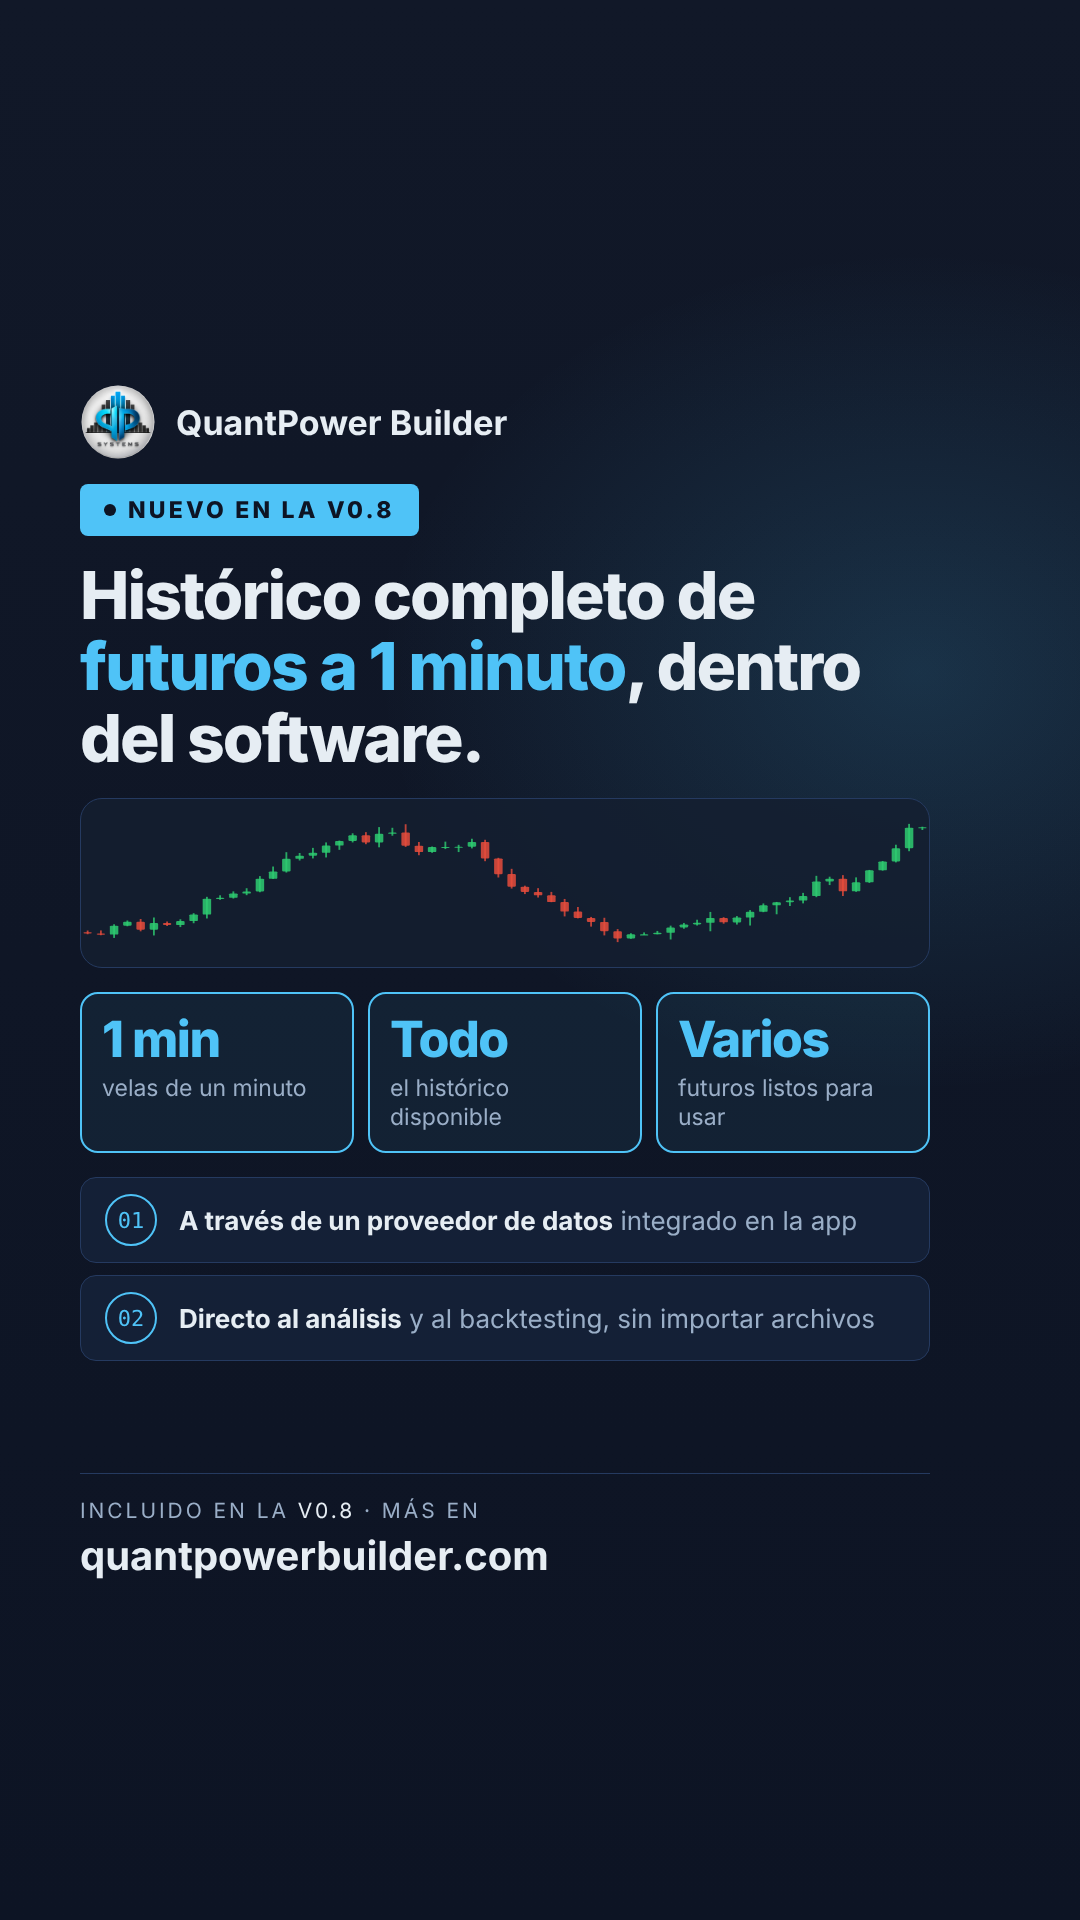
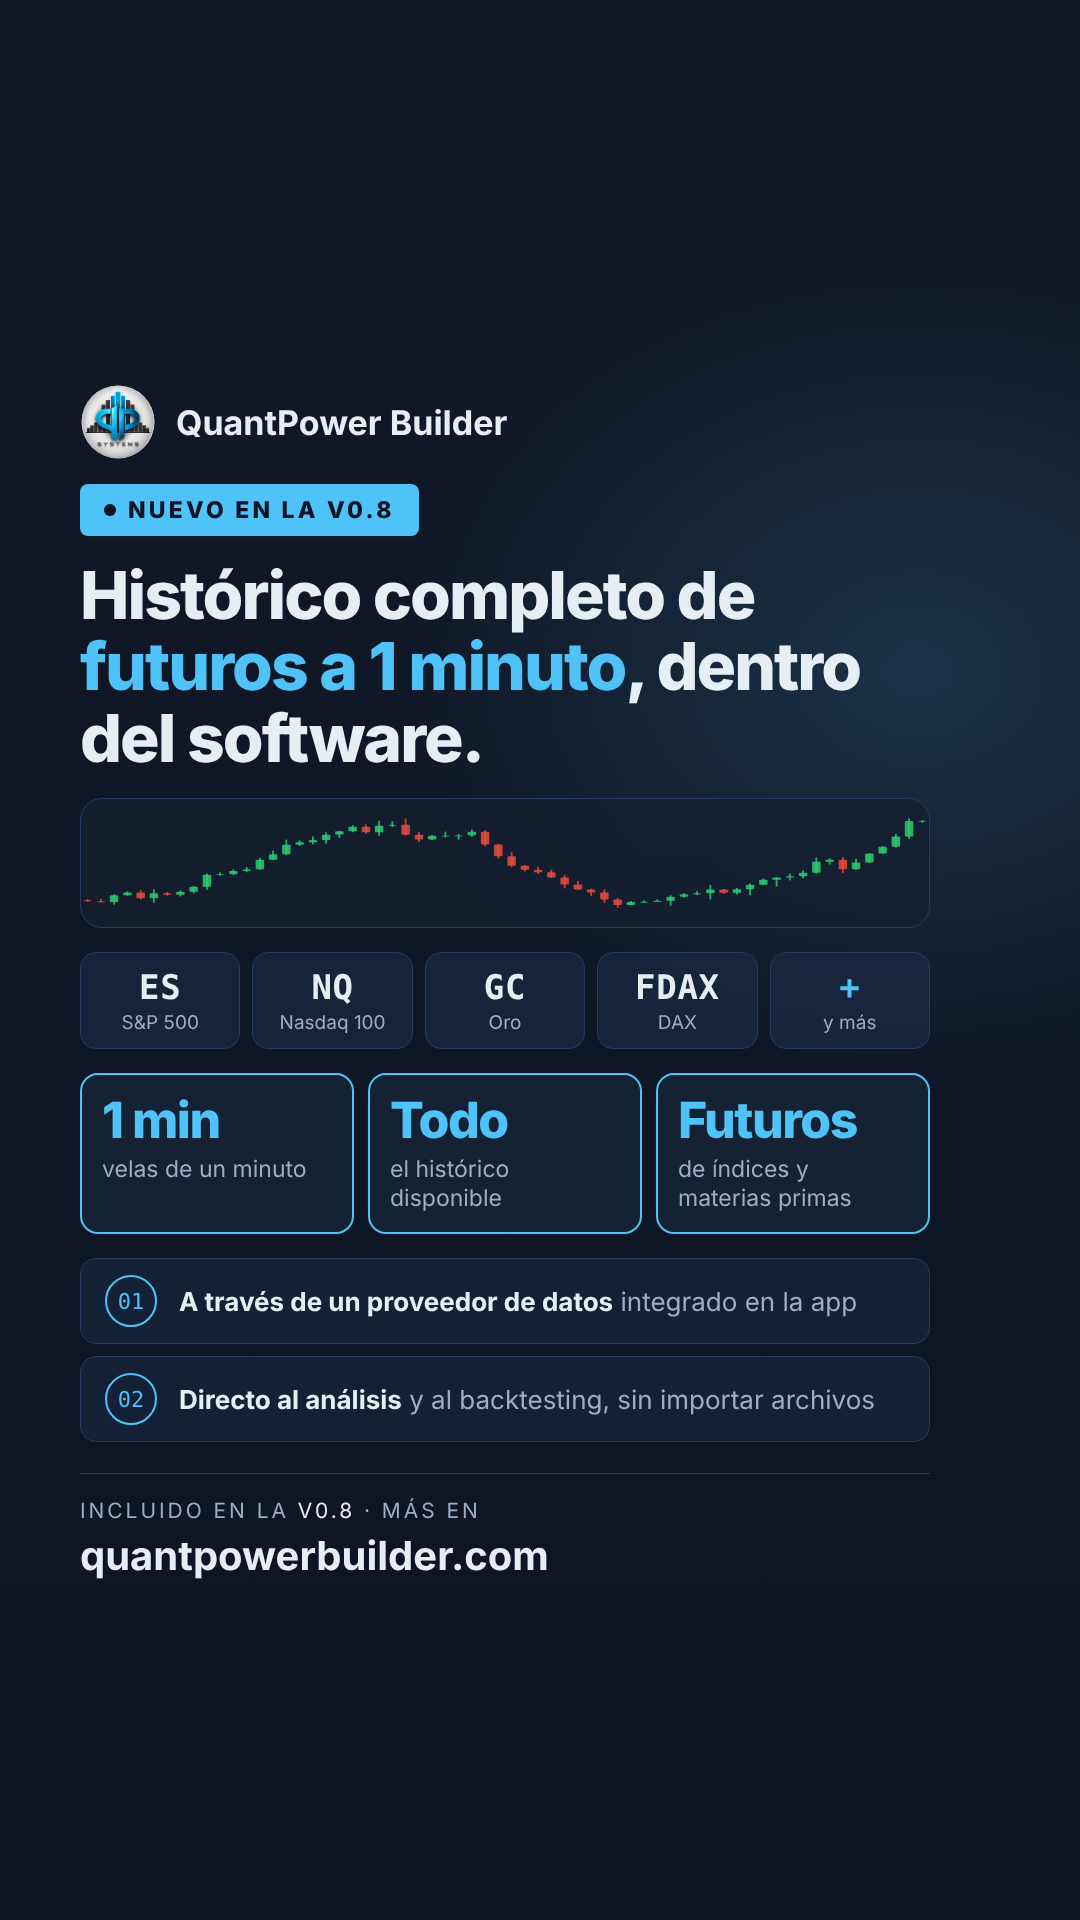
Redes: la portada de la v0.8 muestra ES, NQ, GC y FDAX
Claude-Session: https://claude.ai/code/session_01HHLZi1SgtUefWHesdsfYTT

diff --git a/redes/11-futuros-1min/cartel.html b/redes/11-futuros-1min/cartel.html
@@ -72,8 +72,10 @@
   .foot strong { display: block; margin-top: 8px; font-size: 40px; font-weight: 700; color: var(--text-strong); }
   .foot strong span { color: var(--accent); }
   .poster:not(.vertical) { gap: 24px; }
-  .chart { display: block; width: 100%; height: 170px; padding: 18px 0; border: 1px solid var(--border); border-radius: 22px; background: rgba(20,30,48,.85); }
-  .vertical .chart { height: 190px; }
+  .chart { display: block; width: 100%; height: 130px; padding: 14px 0; border: 1px solid var(--border); border-radius: 22px; background: rgba(20,30,48,.85); }
+  .vertical .chart { height: 110px; }
+  .vertical .stat { padding: 16px 18px; }
+  .vertical .tk { padding: 10px 8px; }
   .poster:not(.vertical) .topic { padding: 16px 24px; font-size: 26px; }
   .stats { display: grid; grid-template-columns: repeat(3, 1fr); gap: 14px; }
   .stat { padding: 20px 20px; border-radius: 18px; border: 2px solid var(--accent); background: rgba(79,195,247,.07); }
@@ -81,6 +83,11 @@
   .stat span { display: block; margin-top: 10px; font-size: 23px; line-height: 1.25; color: var(--text-muted); }
   .vertical .stat strong { font-size: 46px; }
   .ver { color: var(--text-strong); }
+  .tickers { display: grid; grid-template-columns: repeat(5, 1fr); gap: 12px; }
+  .tk { padding: 14px 10px; border-radius: 16px; border: 1px solid var(--border); background: rgba(26,42,69,.7); text-align: center; }
+  .tk b { display: block; font-family: var(--mono); font-size: 34px; font-weight: 800; color: var(--text-strong); letter-spacing: .02em; }
+  .tk span { display: block; margin-top: 4px; font-size: 19px; color: var(--text-muted); }
+  .tk.more b { color: var(--accent); }
 </style>
 </head>
 <body>
@@ -90,10 +97,17 @@
   <div class="badge">Nuevo en la v0.8</div>
   <h1>Histórico completo de <span>futuros a 1 minuto</span>, dentro del software.</h1>
   <svg class="chart" viewBox="0 0 920 230" preserveAspectRatio="none" aria-hidden="true"><path d="M7.2 197.8V204.3" stroke="var(--red)" stroke-width="2" opacity=".8"/><rect x="2.6" y="200.8" width="9.2" height="2.2" rx="1.5" fill="var(--red)" opacity=".85"/><path d="M21.6 197.6V206.0" stroke="var(--red)" stroke-width="2" opacity=".8"/><rect x="17.0" y="203.0" width="9.2" height="2.0" rx="1.5" fill="var(--red)" opacity=".85"/><path d="M35.9 186.9V210.7" stroke="var(--green)" stroke-width="2" opacity=".8"/><rect x="31.3" y="189.4" width="9.2" height="15.4" rx="1.5" fill="var(--green)" opacity=".85"/><path d="M50.3 180.3V190.4" stroke="var(--green)" stroke-width="2" opacity=".8"/><rect x="45.7" y="182.6" width="9.2" height="6.8" rx="1.5" fill="var(--green)" opacity=".85"/><path d="M64.7 177.7V199.2" stroke="var(--red)" stroke-width="2" opacity=".8"/><rect x="60.1" y="182.6" width="9.2" height="13.7" rx="1.5" fill="var(--red)" opacity=".85"/><path d="M79.1 175.1V206.4" stroke="var(--green)" stroke-width="2" opacity=".8"/><rect x="74.5" y="184.8" width="9.2" height="11.5" rx="1.5" fill="var(--green)" opacity=".85"/><path d="M93.4 182.1V189.9" stroke="var(--red)" stroke-width="2" opacity=".8"/><rect x="88.8" y="184.8" width="9.2" height="3.3" rx="1.5" fill="var(--red)" opacity=".85"/><path d="M107.8 178.2V191.8" stroke="var(--green)" stroke-width="2" opacity=".8"/><rect x="103.2" y="181.3" width="9.2" height="6.9" rx="1.5" fill="var(--green)" opacity=".85"/><path d="M122.2 167.6V185.1" stroke="var(--green)" stroke-width="2" opacity=".8"/><rect x="117.6" y="169.9" width="9.2" height="11.4" rx="1.5" fill="var(--green)" opacity=".85"/><path d="M136.6 139.1V176.8" stroke="var(--green)" stroke-width="2" opacity=".8"/><rect x="132.0" y="142.3" width="9.2" height="27.6" rx="1.5" fill="var(--green)" opacity=".85"/><path d="M150.9 136.4V144.3" stroke="var(--green)" stroke-width="2" opacity=".8"/><rect x="146.3" y="140.7" width="9.2" height="2.0" rx="1.5" fill="var(--green)" opacity=".85"/><path d="M165.3 129.6V142.1" stroke="var(--green)" stroke-width="2" opacity=".8"/><rect x="160.7" y="133.2" width="9.2" height="7.5" rx="1.5" fill="var(--green)" opacity=".85"/><path d="M179.7 124.1V136.2" stroke="var(--green)" stroke-width="2" opacity=".8"/><rect x="175.1" y="129.7" width="9.2" height="3.6" rx="1.5" fill="var(--green)" opacity=".85"/><path d="M194.1 103.0V131.1" stroke="var(--green)" stroke-width="2" opacity=".8"/><rect x="189.5" y="107.6" width="9.2" height="22.0" rx="1.5" fill="var(--green)" opacity=".85"/><path d="M208.4 86.3V107.9" stroke="var(--green)" stroke-width="2" opacity=".8"/><rect x="203.8" y="94.9" width="9.2" height="12.7" rx="1.5" fill="var(--green)" opacity=".85"/><path d="M222.8 61.3V96.8" stroke="var(--green)" stroke-width="2" opacity=".8"/><rect x="218.2" y="72.9" width="9.2" height="22.0" rx="1.5" fill="var(--green)" opacity=".85"/><path d="M237.2 62.7V75.8" stroke="var(--green)" stroke-width="2" opacity=".8"/><rect x="232.6" y="67.4" width="9.2" height="5.5" rx="1.5" fill="var(--green)" opacity=".85"/><path d="M251.6 53.8V72.2" stroke="var(--green)" stroke-width="2" opacity=".8"/><rect x="247.0" y="62.2" width="9.2" height="5.2" rx="1.5" fill="var(--green)" opacity=".85"/><path d="M265.9 44.3V70.5" stroke="var(--green)" stroke-width="2" opacity=".8"/><rect x="261.3" y="49.8" width="9.2" height="12.5" rx="1.5" fill="var(--green)" opacity=".85"/><path d="M280.3 41.0V57.2" stroke="var(--green)" stroke-width="2" opacity=".8"/><rect x="275.7" y="41.7" width="9.2" height="8.0" rx="1.5" fill="var(--green)" opacity=".85"/><path d="M294.7 28.4V44.3" stroke="var(--green)" stroke-width="2" opacity=".8"/><rect x="290.1" y="31.9" width="9.2" height="9.8" rx="1.5" fill="var(--green)" opacity=".85"/><path d="M309.1 26.4V47.4" stroke="var(--red)" stroke-width="2" opacity=".8"/><rect x="304.5" y="31.9" width="9.2" height="12.4" rx="1.5" fill="var(--red)" opacity=".85"/><path d="M323.4 17.6V52.8" stroke="var(--green)" stroke-width="2" opacity=".8"/><rect x="318.8" y="29.3" width="9.2" height="15.1" rx="1.5" fill="var(--green)" opacity=".85"/><path d="M337.8 18.8V32.6" stroke="var(--green)" stroke-width="2" opacity=".8"/><rect x="333.2" y="27.1" width="9.2" height="2.2" rx="1.5" fill="var(--green)" opacity=".85"/><path d="M352.2 12.6V52.1" stroke="var(--red)" stroke-width="2" opacity=".8"/><rect x="347.6" y="27.1" width="9.2" height="22.9" rx="1.5" fill="var(--red)" opacity=".85"/><path d="M366.6 43.6V66.6" stroke="var(--red)" stroke-width="2" opacity=".8"/><rect x="362.0" y="50.0" width="9.2" height="11.0" rx="1.5" fill="var(--red)" opacity=".85"/><path d="M380.9 51.4V62.4" stroke="var(--green)" stroke-width="2" opacity=".8"/><rect x="376.3" y="52.3" width="9.2" height="8.7" rx="1.5" fill="var(--green)" opacity=".85"/><path d="M395.3 42.9V55.9" stroke="var(--green)" stroke-width="2" opacity=".8"/><rect x="390.7" y="52.1" width="9.2" height="2.0" rx="1.5" fill="var(--green)" opacity=".85"/><path d="M409.7 48.5V61.1" stroke="var(--green)" stroke-width="2" opacity=".8"/><rect x="405.1" y="51.7" width="9.2" height="2.0" rx="1.5" fill="var(--green)" opacity=".85"/><path d="M424.1 37.9V54.7" stroke="var(--green)" stroke-width="2" opacity=".8"/><rect x="419.5" y="43.4" width="9.2" height="8.3" rx="1.5" fill="var(--green)" opacity=".85"/><path d="M438.4 39.7V77.0" stroke="var(--red)" stroke-width="2" opacity=".8"/><rect x="433.8" y="43.4" width="9.2" height="28.8" rx="1.5" fill="var(--red)" opacity=".85"/><path d="M452.8 71.1V105.4" stroke="var(--red)" stroke-width="2" opacity=".8"/><rect x="448.2" y="72.2" width="9.2" height="27.4" rx="1.5" fill="var(--red)" opacity=".85"/><path d="M467.2 90.3V124.7" stroke="var(--red)" stroke-width="2" opacity=".8"/><rect x="462.6" y="99.5" width="9.2" height="22.0" rx="1.5" fill="var(--red)" opacity=".85"/><path d="M481.6 119.7V134.3" stroke="var(--red)" stroke-width="2" opacity=".8"/><rect x="477.0" y="121.5" width="9.2" height="9.1" rx="1.5" fill="var(--red)" opacity=".85"/><path d="M495.9 124.0V140.3" stroke="var(--red)" stroke-width="2" opacity=".8"/><rect x="491.3" y="130.6" width="9.2" height="5.9" rx="1.5" fill="var(--red)" opacity=".85"/><path d="M510.3 130.5V148.4" stroke="var(--red)" stroke-width="2" opacity=".8"/><rect x="505.7" y="136.5" width="9.2" height="11.7" rx="1.5" fill="var(--red)" opacity=".85"/><path d="M524.7 142.8V173.2" stroke="var(--red)" stroke-width="2" opacity=".8"/><rect x="520.1" y="148.2" width="9.2" height="16.5" rx="1.5" fill="var(--red)" opacity=".85"/><path d="M539.1 156.8V176.6" stroke="var(--red)" stroke-width="2" opacity=".8"/><rect x="534.5" y="164.7" width="9.2" height="11.1" rx="1.5" fill="var(--red)" opacity=".85"/><path d="M553.4 174.1V191.0" stroke="var(--red)" stroke-width="2" opacity=".8"/><rect x="548.8" y="175.8" width="9.2" height="7.1" rx="1.5" fill="var(--red)" opacity=".85"/><path d="M567.8 175.6V206.3" stroke="var(--red)" stroke-width="2" opacity=".8"/><rect x="563.2" y="182.9" width="9.2" height="16.1" rx="1.5" fill="var(--red)" opacity=".85"/><path d="M582.2 195.3V218.0" stroke="var(--red)" stroke-width="2" opacity=".8"/><rect x="577.6" y="199.0" width="9.2" height="12.5" rx="1.5" fill="var(--red)" opacity=".85"/><path d="M596.6 202.5V212.3" stroke="var(--green)" stroke-width="2" opacity=".8"/><rect x="592.0" y="204.5" width="9.2" height="7.0" rx="1.5" fill="var(--green)" opacity=".85"/><path d="M610.9 201.1V205.5" stroke="var(--green)" stroke-width="2" opacity=".8"/><rect x="606.3" y="204.4" width="9.2" height="2.0" rx="1.5" fill="var(--green)" opacity=".85"/><path d="M625.3 198.5V204.4" stroke="var(--green)" stroke-width="2" opacity=".8"/><rect x="620.7" y="201.8" width="9.2" height="2.6" rx="1.5" fill="var(--green)" opacity=".85"/><path d="M639.7 189.3V213.4" stroke="var(--green)" stroke-width="2" opacity=".8"/><rect x="635.1" y="192.6" width="9.2" height="9.2" rx="1.5" fill="var(--green)" opacity=".85"/><path d="M654.1 184.6V194.7" stroke="var(--green)" stroke-width="2" opacity=".8"/><rect x="649.5" y="187.1" width="9.2" height="5.4" rx="1.5" fill="var(--green)" opacity=".85"/><path d="M668.4 179.0V189.1" stroke="var(--green)" stroke-width="2" opacity=".8"/><rect x="663.8" y="184.3" width="9.2" height="2.8" rx="1.5" fill="var(--green)" opacity=".85"/><path d="M682.8 165.4V199.1" stroke="var(--green)" stroke-width="2" opacity=".8"/><rect x="678.2" y="176.0" width="9.2" height="8.3" rx="1.5" fill="var(--green)" opacity=".85"/><path d="M697.2 174.6V185.9" stroke="var(--red)" stroke-width="2" opacity=".8"/><rect x="692.6" y="176.0" width="9.2" height="7.6" rx="1.5" fill="var(--red)" opacity=".85"/><path d="M711.6 172.6V187.4" stroke="var(--green)" stroke-width="2" opacity=".8"/><rect x="707.0" y="175.1" width="9.2" height="8.6" rx="1.5" fill="var(--green)" opacity=".85"/><path d="M725.9 162.2V189.1" stroke="var(--green)" stroke-width="2" opacity=".8"/><rect x="721.3" y="165.2" width="9.2" height="9.9" rx="1.5" fill="var(--green)" opacity=".85"/><path d="M740.3 150.6V165.8" stroke="var(--green)" stroke-width="2" opacity=".8"/><rect x="735.7" y="153.8" width="9.2" height="11.4" rx="1.5" fill="var(--green)" opacity=".85"/><path d="M754.7 148.0V169.5" stroke="var(--green)" stroke-width="2" opacity=".8"/><rect x="750.1" y="148.4" width="9.2" height="5.4" rx="1.5" fill="var(--green)" opacity=".85"/><path d="M769.1 139.7V155.1" stroke="var(--green)" stroke-width="2" opacity=".8"/><rect x="764.5" y="145.5" width="9.2" height="2.9" rx="1.5" fill="var(--green)" opacity=".85"/><path d="M783.4 132.2V150.5" stroke="var(--green)" stroke-width="2" opacity=".8"/><rect x="778.8" y="137.7" width="9.2" height="7.8" rx="1.5" fill="var(--green)" opacity=".85"/><path d="M797.8 102.5V139.7" stroke="var(--green)" stroke-width="2" opacity=".8"/><rect x="793.2" y="112.3" width="9.2" height="25.4" rx="1.5" fill="var(--green)" opacity=".85"/><path d="M812.2 104.0V118.6" stroke="var(--green)" stroke-width="2" opacity=".8"/><rect x="807.6" y="107.6" width="9.2" height="4.7" rx="1.5" fill="var(--green)" opacity=".85"/><path d="M826.6 101.3V137.7" stroke="var(--red)" stroke-width="2" opacity=".8"/><rect x="822.0" y="107.6" width="9.2" height="21.8" rx="1.5" fill="var(--red)" opacity=".85"/><path d="M840.9 105.2V130.4" stroke="var(--green)" stroke-width="2" opacity=".8"/><rect x="836.3" y="113.8" width="9.2" height="15.6" rx="1.5" fill="var(--green)" opacity=".85"/><path d="M855.3 92.2V114.9" stroke="var(--green)" stroke-width="2" opacity=".8"/><rect x="850.7" y="93.0" width="9.2" height="20.8" rx="1.5" fill="var(--green)" opacity=".85"/><path d="M869.7 76.6V93.5" stroke="var(--green)" stroke-width="2" opacity=".8"/><rect x="865.1" y="77.4" width="9.2" height="15.6" rx="1.5" fill="var(--green)" opacity=".85"/><path d="M884.1 48.3V79.1" stroke="var(--green)" stroke-width="2" opacity=".8"/><rect x="879.5" y="54.3" width="9.2" height="23.1" rx="1.5" fill="var(--green)" opacity=".85"/><path d="M898.4 12.0V59.6" stroke="var(--green)" stroke-width="2" opacity=".8"/><rect x="893.8" y="18.6" width="9.2" height="35.7" rx="1.5" fill="var(--green)" opacity=".85"/><path d="M912.8 16.9V22.7" stroke="var(--green)" stroke-width="2" opacity=".8"/><rect x="908.2" y="17.7" width="9.2" height="2.0" rx="1.5" fill="var(--green)" opacity=".85"/></svg>
+  <section class="tickers" aria-label="Ejemplos de futuros">
+    <div class="tk"><b>ES</b><span>S&amp;P 500</span></div>
+    <div class="tk"><b>NQ</b><span>Nasdaq 100</span></div>
+    <div class="tk"><b>GC</b><span>Oro</span></div>
+    <div class="tk"><b>FDAX</b><span>DAX</span></div>
+    <div class="tk more"><b>+</b><span>y más</span></div>
+  </section>
   <section class="stats">
     <div class="stat"><strong>1 min</strong><span>velas de un minuto</span></div>
     <div class="stat"><strong>Todo</strong><span>el histórico disponible</span></div>
-    <div class="stat"><strong>Varios</strong><span>futuros listos para usar</span></div>
+    <div class="stat"><strong>Futuros</strong><span>de índices y materias primas</span></div>
   </section>
   <section class="topics">
     <div class="topic"><i>01</i><span><b>A través de un proveedor de datos</b> integrado en la app</span></div>

diff --git a/redes/11-futuros-1min/texto-post.md b/redes/11-futuros-1min/texto-post.md
@@ -5,26 +5,26 @@ Imágenes:
 - `cartel-1080x1920.png` → TikTok e historias (9:16, márgenes para la interfaz de la app).
 - `cartel-1080x1350.png` → Instagram, Facebook y LinkedIn (4:5).
 
-Las velas del cartel son decorativas, no datos reales. El cartel no nombra al proveedor
-ni a los activos; si se quieren mostrar, añadirlos en `cartel.html`.
+Las velas del cartel son decorativas, no datos reales. Ejemplos de futuros en el cartel: ES, NQ, GC y FDAX (y más).
+El proveedor no se nombra.
 
 ## TikTok
 
 **Descripción (una línea):**
 
-🆕 v0.8: histórico completo de futuros a 1 minuto, dentro de la app #QuantPowerBuilder
+🆕 v0.8: ES, NQ, GC, FDAX… histórico completo a 1 minuto #QuantPowerBuilder
 
 **Comentario fijado:**
 
-Nuevo en la v0.8 de QuantPower Builder: el histórico completo de varios futuros en velas de 1 minuto, a través de un proveedor de datos integrado. Directo al análisis y al backtesting.
+Nuevo en la v0.8 de QuantPower Builder: el histórico completo de futuros como ES, NQ, GC o FDAX en velas de 1 minuto, a través de un proveedor de datos integrado. Directo al análisis y al backtesting.
 👉 quantpowerbuilder.com
-#QuantPowerBuilder #futuros #backtesting #tradingalgoritmico #trading
+#QuantPowerBuilder #futuros #ES #NQ #FDAX #backtesting #trading
 
 ## Instagram, Facebook y LinkedIn
 
 🆕 Nuevo en QuantPower Builder v0.8: histórico completo de futuros a 1 minuto.
 
-A través de un proveedor de datos integrado en la app, tienes el histórico completo de varios futuros en velas de un minuto, listo para analizar y para hacer backtesting sin importar archivos.
+A través de un proveedor de datos integrado en la app, tienes el histórico completo de futuros como ES (S&P 500), NQ (Nasdaq 100), GC (oro) o FDAX (DAX) en velas de un minuto, listo para analizar y para hacer backtesting sin importar archivos.
 
 👉 quantpowerbuilder.com
 
